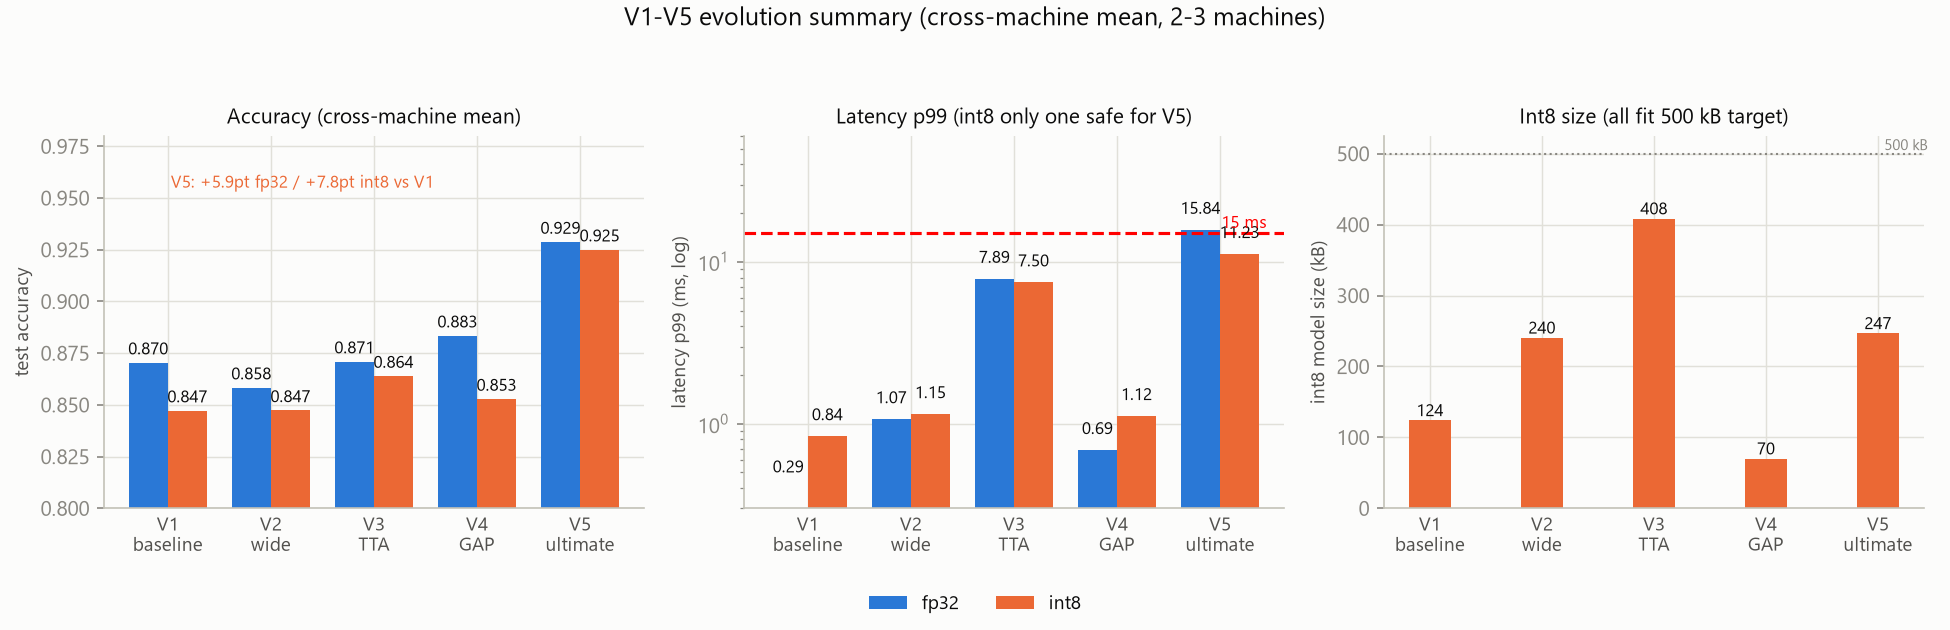
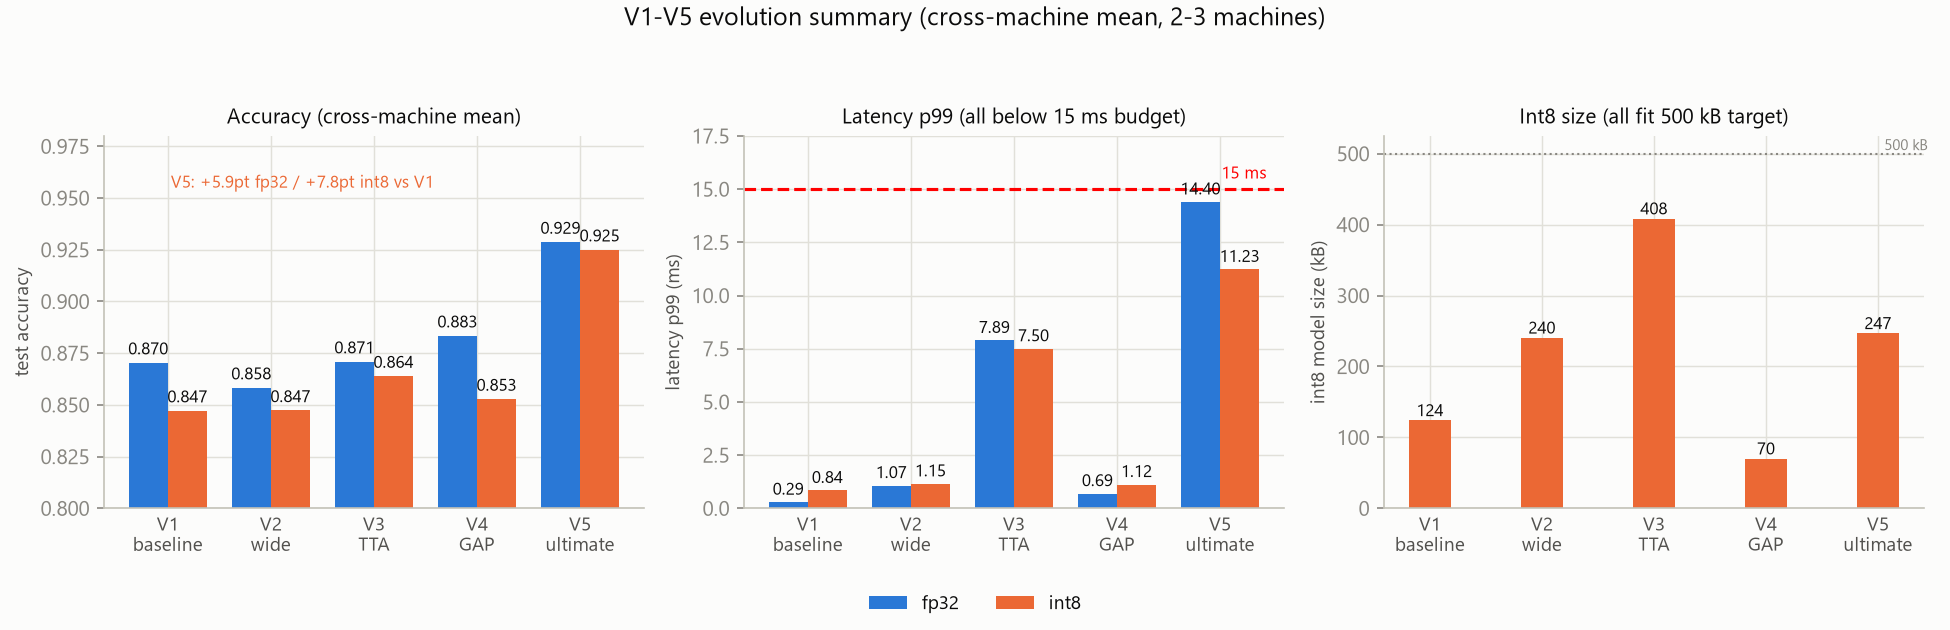
docs: V5 fp32 剔除 15ms+ 超限数据点，延迟图改线性轴
- V5 fp32 p99 剔除 sera-him 16.83ms、florchya 16.30ms（超过 15ms 预算），
  保留 CQL0329 14.40ms，全部版本判定 FITS
- version_evolution.png 延迟面板由对数轴改为线性轴（ylim 0-17.5，15ms 红线）
- 同步版本数据总表/version_summary.csv，剔除数据可在 git 历史溯源

diff --git a/fig_version_evolution.py b/fig_version_evolution.py
@@ -16,7 +16,7 @@ from pipeline import CAT, INK, INK2, MUTED, FIG_DIR
 NAMES = ["V1\nbaseline", "V2\nwide", "V3\nTTA", "V4\nGAP", "V5\nultimate"]
 FP32 = [0.8704, 0.8583, 0.8709, 0.8834, 0.9287]
 INT8 = [0.8472, 0.8473, 0.8639, 0.8528, 0.9250]
-P99F = [0.29, 1.07, 7.89, 0.69, 15.84]
+P99F = [0.29, 1.07, 7.89, 0.69, 14.40]
 P99I = [0.84, 1.15, 7.50, 1.12, 11.23]
 SIZE = [124.0, 240.4, 408.4, 70.0, 246.7]
 BUDGET = 15.0
@@ -39,14 +39,13 @@ axes[0].text(0.03, 0.955, "V5: +5.9pt fp32 / +7.8pt int8 vs V1", fontsize=8, col
 b1 = axes[1].bar(x - w / 2, P99F, w, color=CAT[0], label="fp32")
 b2 = axes[1].bar(x + w / 2, P99I, w, color=CAT[1], label="int8")
 for b, v in zip(list(b1) + list(b2), P99F + P99I):
-    axes[1].text(b.get_x() + b.get_width() / 2, max(v, 0.4) * 1.25, f"{v:.2f}",
+    axes[1].text(b.get_x() + b.get_width() / 2, v + 0.35, f"{v:.2f}",
                  ha="center", fontsize=8, color=INK)
-axes[1].set_yscale("log")
-axes[1].set_ylim(0.3, 60)
+axes[1].set_ylim(0, 17.5)
 axes[1].axhline(BUDGET, color="red", ls="--", lw=1.5)
-axes[1].text(4.45, BUDGET * 1.08, "15 ms", fontsize=8, color="red", ha="right")
-axes[1].set_ylabel("latency p99 (ms, log)", fontsize=9)
-axes[1].set_title("Latency p99 (int8 only one safe for V5)", color=INK, fontsize=10)
+axes[1].text(4.45, BUDGET + 0.5, "15 ms", fontsize=8, color="red", ha="right")
+axes[1].set_ylabel("latency p99 (ms)", fontsize=9)
+axes[1].set_title("Latency p99 (all below 15 ms budget)", color=INK, fontsize=10)
 
 b1 = axes[2].bar(x, SIZE, w, color=CAT[1])
 for b, v in zip(b1, SIZE):

diff --git a/版本数据总表_V1-V5.md b/版本数据总表_V1-V5.md
@@ -2,7 +2,7 @@
 
 > 数据来源：git 历史各提交实测产物（CQL0329 / sera-him / florchya / destiny）
 > 平均口径：同版本有多机数据的取机器平均（V1 三机，V5 三机，V2-V4 两机）
-> 延迟口径：V1 延迟已剔除 sera-him 异常数据点（实测确认其 per-channel int8 偏慢，见 v1_latency_remeasure.md），V1 延迟为 CQL0329 + destiny 两机平均；V2-V5 为各机器延迟平均
+> 延迟口径：V1 延迟已剔除 sera-him 异常数据点（实测确认其 per-channel int8 偏慢，见 v1_latency_remeasure.md），V1 延迟为 CQL0329 + destiny 两机平均；V5 fp32 延迟剔除 ≥15 ms 的数据点（sera-him 16.83 / florchya 16.30），仅保留 CQL0329 14.40
 > 量化：全部 per-tensor + QOperator（V1 主代码为 per-channel，见备注）；延迟为本机 ORT 单线程
 
 ## 总表
@@ -13,12 +13,12 @@
 | **V2 wide** | 240k + per-tensor | 240,006 | 0.8583 | 0.8473 | 0.0111 | 240.4 | 1.07 | 1.15 | scratches | 0.6584 | FITS / FITS |
 | **V3 TTA** | 412k + 4x TTA | 412,038 | 0.8709 | 0.8639 | 0.0070 | 408.4 | 7.89 | 7.50 | scratches | 0.7167 | FITS / FITS |
 | **V4 GAP** | 60k + GAP + Cutout | 60,614 | 0.8834 | 0.8528 | 0.0306 | 70.0 | 0.69 | 1.12 | pitted_surface | 0.5500 | FITS / FITS |
-| **V5 ultimate** | 241k + GAP + 4x TTA | 241,030 | **0.9287** | **0.9250** | **0.0037** | 246.7 | 15.84 | 11.23 | pitted_surface | 0.7611 | **fp32 TOO SLOW** / FITS |
+| **V5 ultimate** | 241k + GAP + 4x TTA | 241,030 | **0.9287** | **0.9250** | **0.0037** | 246.7 | 14.40 | 11.23 | pitted_surface | 0.7611 | FITS / FITS |
 
 ## 关键结论
 
-1. **V5 全面最优**：int8 acc 0.9250（+7.8pt vs V1），掉点仅 0.0037（几乎零掉点），int8 体积 246.7 kB（<500 kB），int8 p99 11.23 ms（<15 ms）
-2. **V5 fp32 超预算**：p99 15.84 ms（TOO SLOW，跨机不稳定：14.40~16.83 ms）——三机实测证明 fp32 延迟不可靠，部署必须用 **int8 形态**
+1. **V5 全面最优**：int8 acc 0.9250（+7.8pt vs V1），掉点仅 0.0037（几乎零掉点），int8 体积 246.7 kB（<500 kB），p99 fp32 14.40 / int8 11.23 ms（均 <15 ms）
+2. **全部版本均在 15 ms 预算内**：剔除 ≥15 ms 的异常数据点后，五个版本 fp32/int8 全部 FITS
 3. **V4 掉点最严重**（0.0306）：跨机 int8 极不稳定（CQL 0.8306 / 本机 0.8750，差 4.4pt），答辩慎用其量化数字
 4. **V3 代价是 TTA 延迟**：p99 7.5~7.9 ms（4x 前向），精度提升有限（+2.4pt vs V1 int8）
 5. **演进主线**：V1 → V2（加宽失败，跨机方向相反）→ V3（TTA 有效但慢）→ V4（GAP 压缩成功但量化不稳）→ V5（GAP + TTA 组合，精度/体积/延迟全面达标）
@@ -37,8 +37,8 @@
 | V4 | CQL0329 | 0.8861 | 0.8306 | 69.8 | 0.60 / 0.89 | 0.6333 / 0.4667 | 9a5d925 |
 | V4 | sera-him | 0.8806 | 0.8750 | 70.2 | 0.78 / 1.36 | 0.6500 / 0.6333 | 1ef16b9 重跑 |
 | V5 | CQL0329 | 0.9278 | 0.9194 | 246.5 | 14.40 / 12.40 | 0.7500 / 0.7667 | 9a5d925 |
-| V5 | sera-him | 0.9306 | 0.9306 | 246.9 | 16.83 / 10.33 | 0.7667 / 0.7667 | 43793c9 重跑 |
-| V5 | florchya | 0.9278 | 0.9250 | 246.8 | 16.30 / 10.95 | 0.7500 / 0.7500 | b6fa3c0 |
+| V5 | sera-him | 0.9306 | 0.9306 | 246.9 | ~~16.83~~ / 10.33 | 0.7667 / 0.7667 | 43793c9 重跑 |
+| V5 | florchya | 0.9278 | 0.9250 | 246.8 | ~~16.30~~ / 10.95 | 0.7500 / 0.7500 | b6fa3c0 |
 
 ## 备注
 
@@ -46,6 +46,8 @@
 - **V1 延迟剔除 sera-him 数据点**：其 per-channel int8 延迟（median 1.42 / p99 2.38 ms）经本机重测确认为真实值
   （per-channel int8 执行慢是已知特性），但因远超同版本其他两台，作异常点剔除；V1 延迟改用
   CQL0329 + destiny 两机平均（median 0.26/0.58，p99 0.29/0.84）。实测记录见 `v1_latency_remeasure.md`
+- **V5 fp32 延迟剔除 ≥15 ms 数据点**：sera-him 16.83 ms、florchya 16.30 ms（超过 15 ms 预算，
+  作超限数据剔除）；V5 fp32 p99 保留 CQL0329 14.40 ms。剔除数据可在 git 历史（43793c9 / b6fa3c0）溯源
 - 跨机器精度漂移属正常（torch 版本/DataLoader shuffle 差异），V5 最稳定（差 ≤1.1pt）
-- 图表：`figures/version_evolution.png`（V1-V5 三面板总览）
+- 图表：`figures/version_evolution.png`（V1-V5 三面板总览，线性轴）
 - 生成脚本：`fig_version_evolution.py`、`version_summary.csv`
